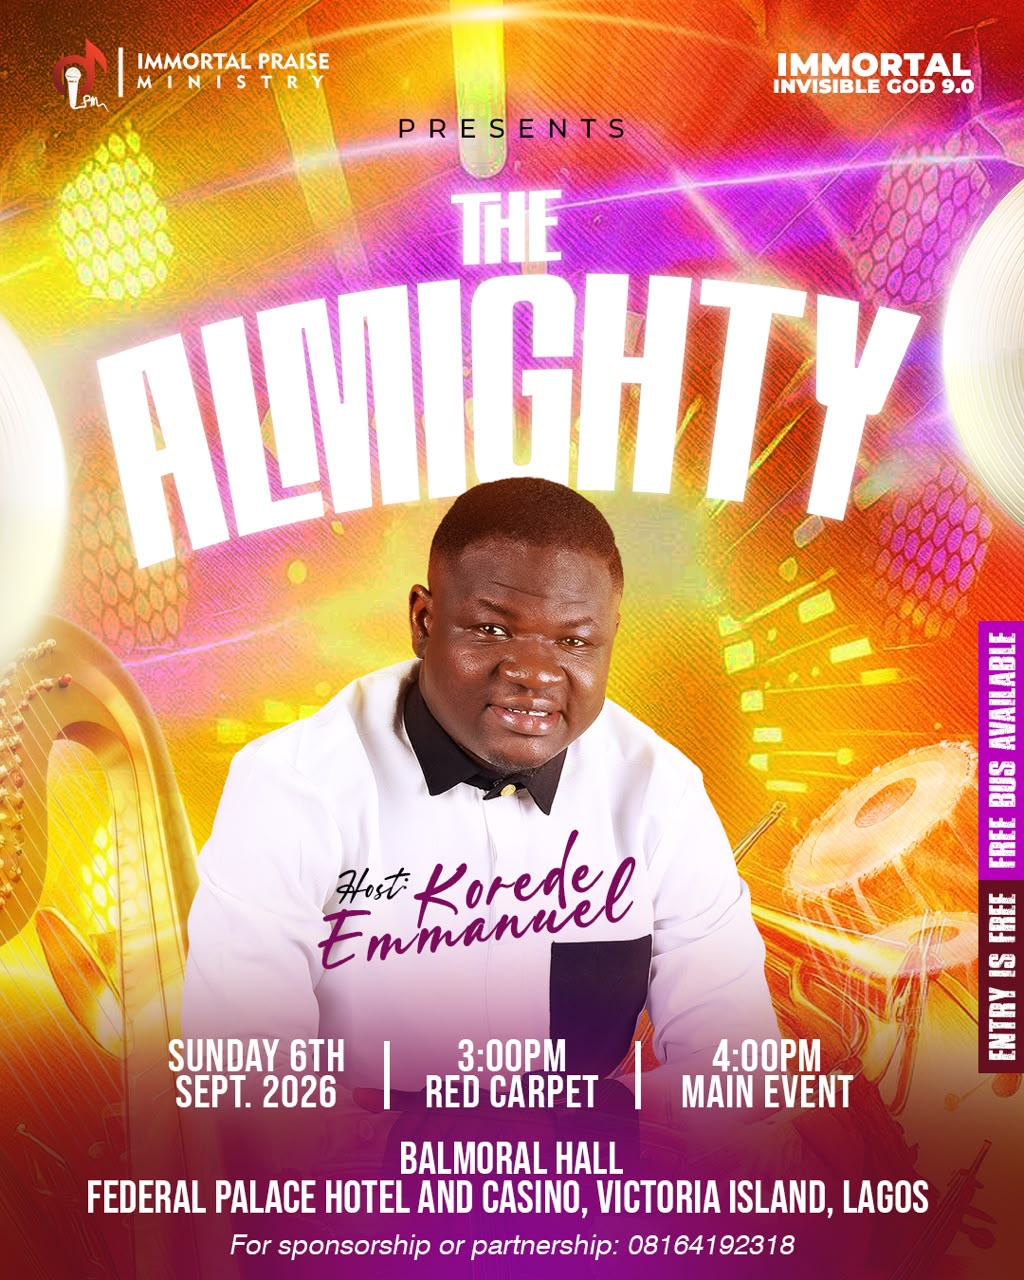
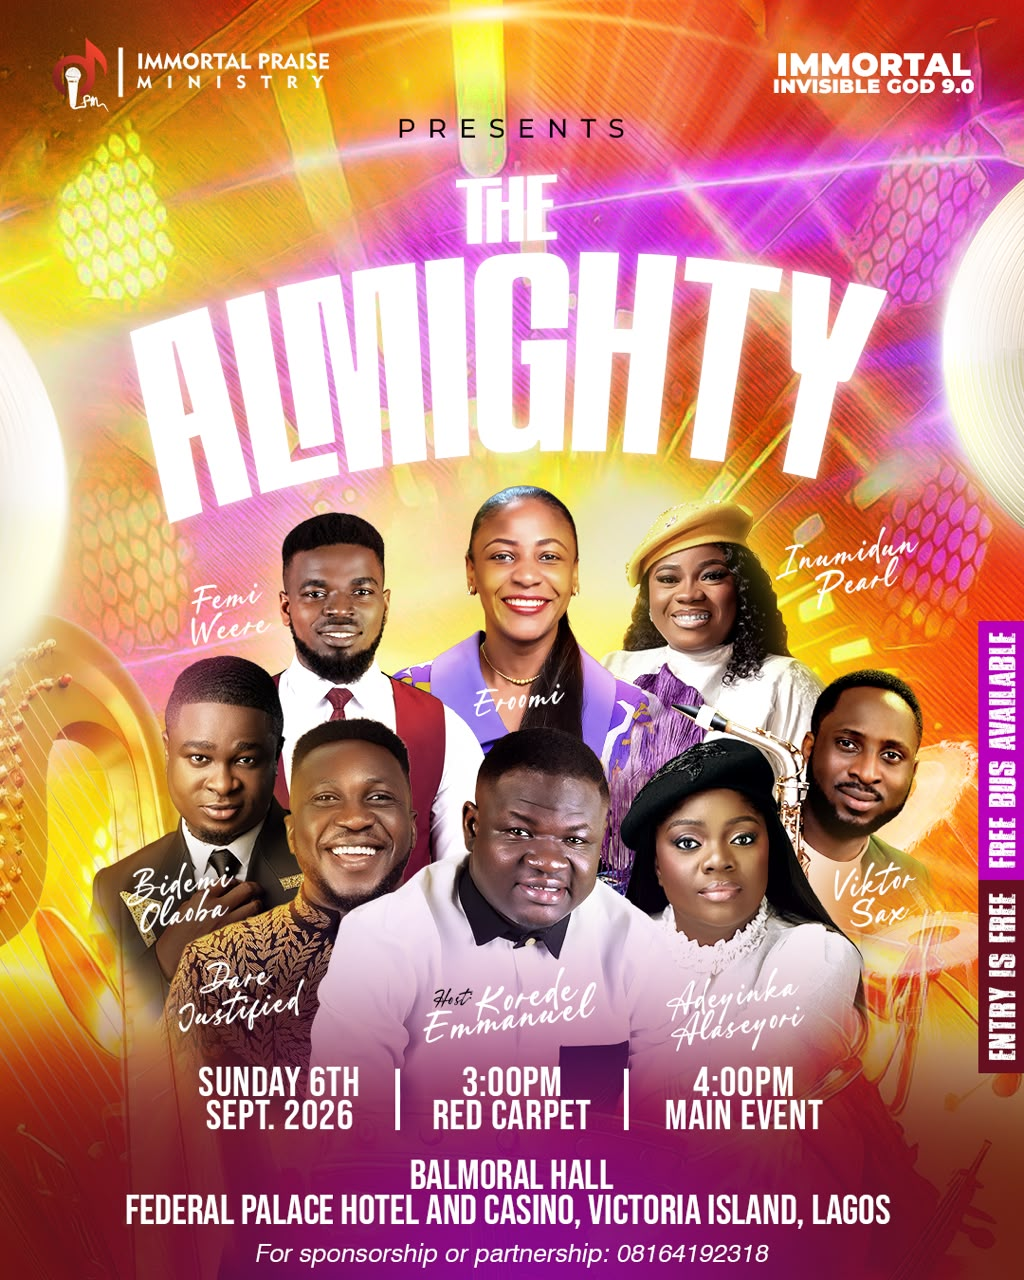
bus

diff --git a/src/App.css b/src/App.css
@@ -16,7 +16,7 @@
 @keyframes heroIn { from { opacity: 0; transform: translateY(18px); } to { opacity: 1; transform: translateY(0); } }
 
 /* Subtle interactive motion */
-.card, .wwd-card, .tier-card, .testimonial-card, .gallery-item, .about-image, .leader-image, .ig-flyer {
+.card, .wwd-card, .tier-card, .testimonial-card, .gallery-item, .about-image, .leader-image, .ig-flyer, .bus-flyer {
   transition: transform 0.25s ease, box-shadow 0.25s ease, border-color 0.25s ease;
 }
 .card:hover, .wwd-card:hover, .testimonial-card:hover { transform: translateY(-3px); border-color: rgba(232, 163, 61, 0.35); }
@@ -186,6 +186,19 @@ img { max-width: 100%; display: block; }
   border: 1px solid var(--border); border-radius: 3px; padding: 7px 12px;
 }
 
+/* FREE BUS */
+.bus-grid { display: grid; grid-template-columns: 0.85fr 1.15fr; gap: 44px; align-items: start; }
+.bus-flyer { border-radius: 8px; overflow: hidden; border: 1px solid var(--border); }
+.bus-side { display: flex; flex-direction: column; gap: 28px; }
+.bus-cta { display: flex; flex-direction: column; align-items: flex-start; gap: 10px; }
+.bus-note { font-size: 13px; color: var(--muted); }
+.bus-list { border-top: 1px solid var(--border); }
+.bus-row { display: flex; justify-content: space-between; align-items: center; gap: 20px; padding: 12px 0; border-bottom: 1px solid var(--border); }
+.bus-location { font-family: var(--font-display); font-size: 16px; color: var(--text); }
+.bus-contact { font-size: 13.5px; color: var(--muted); text-align: right; }
+.bus-phone { color: var(--gold); }
+.bus-phone:hover { color: #f0b256; }
+
 /* ABOUT */
 .about-grid { display: grid; grid-template-columns: 1.1fr 0.9fr; gap: 48px; align-items: center; }
 .about-grid h2 { font-family: var(--font-display); font-weight: 400; font-size: clamp(28px, 3.6vw, 40px); margin-bottom: 6px; }
@@ -333,7 +346,7 @@ footer { padding: 48px 0 32px; color: var(--muted); font-size: 13px; }
 .foot-copy-row { display: flex; justify-content: space-between; align-items: center; flex-wrap: wrap; gap: 10px; border-top: 1px solid var(--border); padding-top: 20px; font-size: 12px; }
 
 @media (max-width: 900px) {
-  .ig-grid { grid-template-columns: 1fr; }
+  .ig-grid, .bus-grid { grid-template-columns: 1fr; }
   .about-grid, .leader-grid { grid-template-columns: 1fr; }
   .leader-image { order: -1; }
   .featured-grid, .ministrations-grid { grid-template-columns: 1fr; }
@@ -356,6 +369,8 @@ footer { padding: 48px 0 32px; color: var(--muted); font-size: 13px; }
   .gallery-grid { grid-template-columns: 1fr; }
   .gallery-item.wide { grid-column: span 1; aspect-ratio: 4/5; }
   .event-row { flex-direction: column; gap: 6px; }
+  .bus-row { flex-direction: column; align-items: flex-start; gap: 4px; }
+  .bus-cta { flex-direction: column; align-items: flex-start; }
   .hero { padding: 140px 0 88px; }
   .section { padding: 64px 0; }
 }

diff --git a/src/components/FreeBus.jsx b/src/components/FreeBus.jsx
@@ -1,0 +1,46 @@
+import { FREE_BUS, FEATURED_EVENT } from "../data/content";
+
+export default function FreeBus() {
+  return (
+    <section className="section free-bus" id="free-bus">
+      <div className="wrap">
+        <div className="section-head reveal">
+          <div className="eyebrow">{FREE_BUS.eyebrow}</div>
+          <h2>{FREE_BUS.title}</h2>
+          <p className="lead">{FREE_BUS.intro}</p>
+        </div>
+
+        <div className="bus-grid">
+          <div className="bus-flyer reveal">
+            <img src={FREE_BUS.flyerImage} alt="Free Bus Movement — pick-up points and registration" />
+          </div>
+
+          <div className="bus-side reveal">
+            <div className="bus-cta">
+              <a href={FREE_BUS.registerUrl} target="_blank" rel="noopener noreferrer" className="btn">
+                Register Your Seat
+              </a>
+              <span className="bus-note">
+                Entry is free · Bus transport is free · Sponsorship: {FEATURED_EVENT.sponsorshipPhone}
+              </span>
+            </div>
+
+            <div className="bus-list">
+              {FREE_BUS.stops.map((stop) => (
+                <div className="bus-row" key={stop.location}>
+                  <div className="bus-location">{stop.location}</div>
+                  <div className="bus-contact">
+                    {stop.name} —{" "}
+                    <a className="bus-phone" href={`tel:${stop.phone}`}>
+                      {stop.phone}
+                    </a>
+                  </div>
+                </div>
+              ))}
+            </div>
+          </div>
+        </div>
+      </div>
+    </section>
+  );
+}

diff --git a/src/data/content.js b/src/data/content.js
@@ -27,6 +27,26 @@ export const FEATURED_EVENT = {
   sponsorshipPhone: "08164192318",
 };
 
+export const FREE_BUS = {
+  eyebrow: "Free Bus Movement",
+  title: "Your ride to The Almighty is on us.",
+  flyerImage: "/assets/free-bus-flyer.jpg",
+  intro:
+    "Seats are limited — register today and reserve your free seat on the bus to Immortal Invisible God 9.0.",
+  registerUrl: "https://immortalpraiseministry.org/", // PLACEHOLDER — confirm this is the intended bus registration link
+  stops: [
+    { location: "Onipanu", name: "Deborah", phone: "09034622237" },
+    { location: "Shomolu", name: "Taiwo", phone: "08097751198" },
+    { location: "Yabatech", name: "Ra'el", phone: "08140177537" },
+    { location: "FCET Akoka", name: "Patricia", phone: "09024847613" },
+    { location: "Ikorodu Axis", name: "Solomon", phone: "08160025877" },
+    { location: "New Garage/Iyanaoworo", name: "Oreofejesu", phone: "08104869175" },
+    { location: "Bariga", name: "Olorunjoba", phone: "09014893783" },
+    { location: "Alapere", name: "Emmanuel", phone: "07019404636" },
+    { location: "Surulere/Ojuelegba", name: "Adeyi", phone: "07063541451" },
+  ],
+};
+
 export const REGISTER = {
   ctaLabel: "Register",
   title: "Register for our next event.",

diff --git a/src/App.jsx b/src/App.jsx
@@ -2,6 +2,7 @@ import { useEffect } from "react";
 import Nav from "./components/Nav";
 import Hero from "./components/Hero";
 import InvisibleGod from "./components/InvisibleGod";
+import FreeBus from "./components/FreeBus";
 import About from "./components/About";
 import Mission from "./components/Mission";
 import FeaturedMinistration from "./components/FeaturedMinistration";
@@ -45,6 +46,7 @@ export default function App() {
       <Nav />
       <Hero />
       <InvisibleGod />
+      <FreeBus />
       <About />
       <Mission />
       <FeaturedMinistration />

diff --git a/src/components/Nav.jsx b/src/components/Nav.jsx
@@ -3,6 +3,7 @@ import { MINISTRY, REGISTER } from "../data/content";
 
 const LINKS = [
   ["Almighty 9.0", "#invisible-god"],
+  ["Free Bus", "#free-bus"],
   ["About", "#about"],
   ["Mission", "#mission"],
   ["What We Do", "#what-we-do"],
